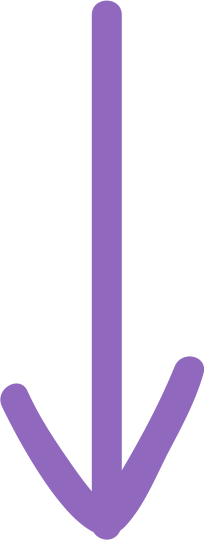
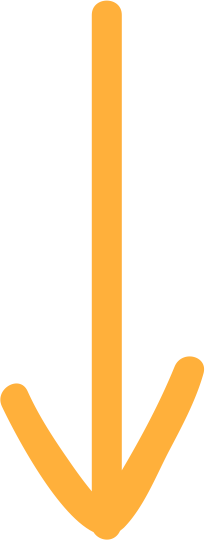
making all last changes

Changed region(s): [[0.0, 0.0, 0.9951, 1.0]]

diff --git a/index.html b/index.html
@@ -85,8 +85,10 @@
         <div class="col-md-12 text-center">
           <h2 class="featurette-heading">This way to your first game.</h2>
           <img class="center-block mb60" width="30" src="stylesheets/down_arrow.png" />
-          <p class="lead col-md-6 col-md-push-3">You're an athlete and your energy is valuable. You won't lose because you were tired from your walk over. </br> </br> Average walking time between facilities: <b>6 minutes.</b></p>
-          <iframe class="" width="711" height="400" src="stylesheets/PSG Proposal.mp4"></iframe>
+          <p class="lead col-md-6 col-md-push-3">You're an athlete and your energy is valuable. You won't lose because you were tired from your walk over. </br> </br> Average walking time between facilities: <b>10 minutes.</b></p>
+          <div class="col-md-12">
+            <iframe width="560" height="315" src="https://www.youtube.com/embed/x7WOxnh9V90" frameborder="0" allowfullscreen></iframe>
+          </div>
         </div>
       </div>
     </div>
@@ -133,7 +135,7 @@
 
     <div class="jumbotron">
       <div class="container">
-        <div class="row featurette featurette-full text-center">
+        <div class="row featurette featurette-full featurette-yellow text-center">
           <h2 class="text-center">Meet the Water-Crew</h2>
           <div class="col-lg-10 col-lg-push-1">
             <div class="col-lg-4">
@@ -204,7 +206,7 @@
             <p class="lead text-right col-md-12 col-md-pull-1">Grabbing data about who came, which schools participated the most, attendance etc. can help all ISAs improve PSG year over year.</p>
           </div>
           <div class="col-md-5">
-            <img class="featurette-image img-responsive center-block" data-src="holder.js/500x500/auto" alt="Generic placeholder image">
+            <img class="featurette-image img-responsive center-block" src="stylesheets/analytics-bg.png" width="300" alt="Generic placeholder image">
           </div>
           <hr class="featurette-divider col-md-12">
           <div class="col-md-7 col-md-push-5">
@@ -213,14 +215,14 @@
           </div>
 
           <div class="col-md-5 col-md-pull-7">
-            <img class="featurette-image img-responsive center-block" src="stylesheets/choice-awards-bg.png" width="300" alt="Generic placeholder image">
+            <img class="featurette-image img-responsive center-block" src="stylesheets/feedback-bg.png" width="300" alt="Generic placeholder image">
           </div>
         </div>
         </div>
     </div>
 
     <div class="jumbotron">
-        <div class="row featurette text-center">
+        <div class="row featurette featurette-yellow text-center">
             <h2 class="featurette-heading col-md-10 col-md-push-1">Oops...<span class="text-muted">We're sorry it's over.</span></h2>
 
             <iframe class="" width="711" height="400" src="https://www.youtube.com/embed/fRh_vgS2dFE"></iframe>

diff --git a/stylesheets/stylesheet.css b/stylesheets/stylesheet.css
@@ -44,14 +44,14 @@ b {
 .intro-header h4 {
 	letter-spacing: 2px;
 	font-weight: 700;
-	color: #9068be;
+	color: #ffb03b;
 	margin-bottom: 30px;
 }
 
 .intro-header h1 {
 	font-size: 7rem;
 	margin-bottom: 30px;
-	color: #9068be;
+	color: #ffb03b;
 }
 
 .intro-header p {
@@ -73,7 +73,7 @@ b {
 .featurette h2, .marketing h2 {
 	font-family: "Besom";
 	font-size: 5rem;
-	color: #9068be;
+	color: #ffb03b;
 	font-weight: 700;
 	margin-bottom: 30px;
 }
@@ -87,7 +87,7 @@ b {
 .featurette .text-muted {
 	font-family: "Raleway";
 	font-size: 3rem;
-	color: #9068be;
+	color: #ffb03b;
 	font-weight: 700;
 }
 
